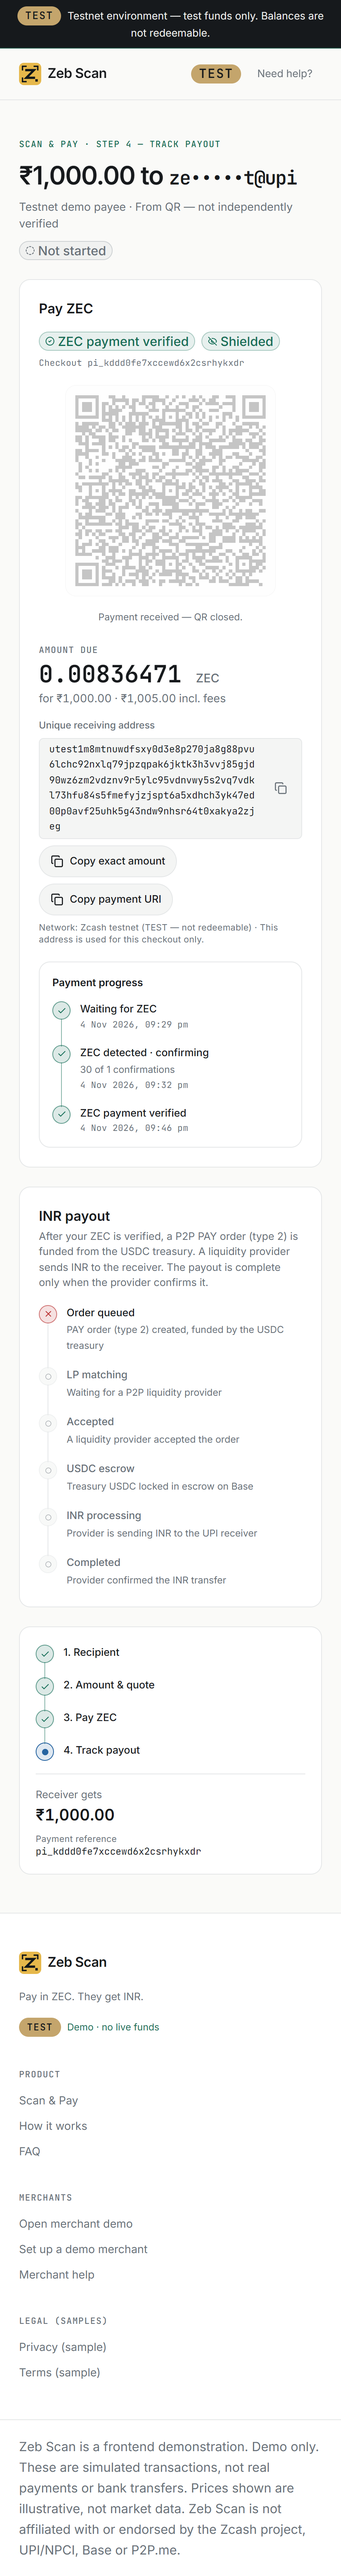
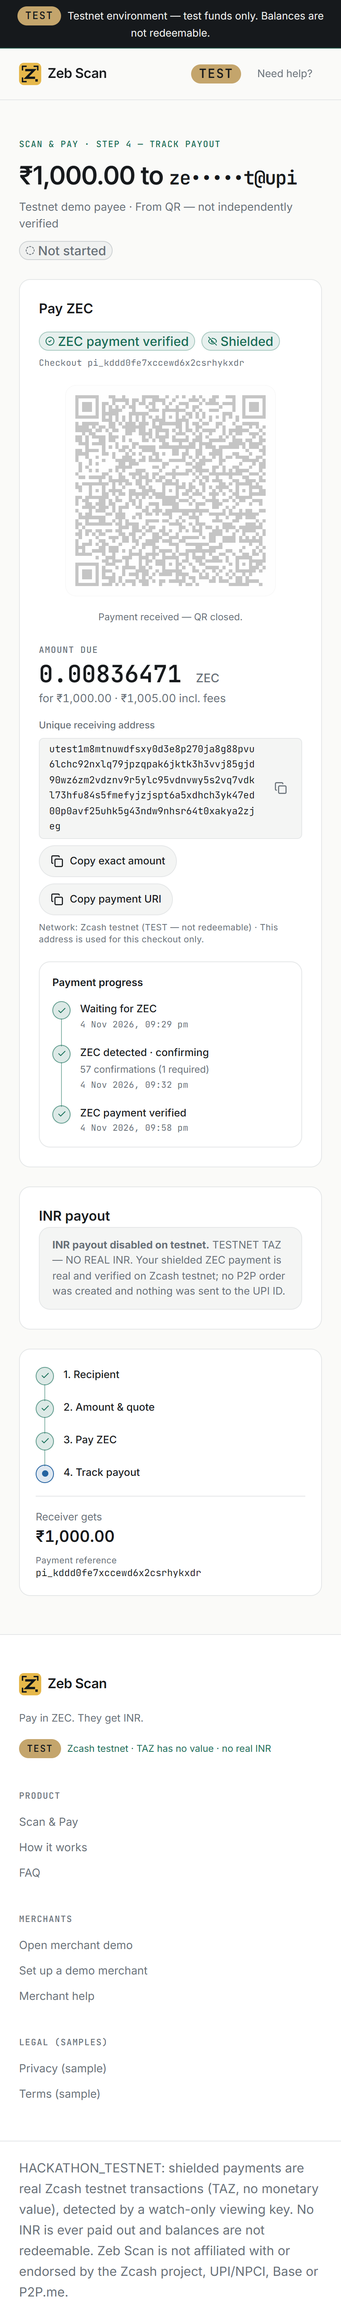
fix(web): honest testnet payout panel, footer and confirmation copy
Connected mode on HACKATHON_TESTNET showed 'Order queued - failed ... funded by the USDC
treasury' although no P2P order exists and payouts are disabled by design. Now: 'INR payout
disabled on testnet. TESTNET TAZ - NO REAL INR'. Footer no longer claims 'frontend
demonstration' on testnet; '30 of 1 confirmations' -> '30 confirmations (1 required)'.
Screenshot is the real checkout for txid 5c1f713d…d8f7.

Changed region(s): [[0.0302, 0.0, 0.9674, 0.999], [0.3023, 0.8429, 0.393, 0.8741], [0.3628, 0.718, 0.393, 0.7492]]

diff --git a/apps/web/src/components/screens/ScanStatus.tsx b/apps/web/src/components/screens/ScanStatus.tsx
@@ -31,6 +31,8 @@ export function ScanStatus({ id }: { id: string }) {
   const order = c.p2pOrderId ? state.orders.find((o) => o.id === c.p2pOrderId) ?? null : null;
   const receipt = state.receipts.find((r) => r.checkoutId === c.id);
   const stepNo = c.depositStatus === "accepted" ? 4 : 3;
+  // HACKATHON_TESTNET: TAZ is worthless; no P2P order is ever created, so never draw an order tracker.
+  const testnet = !isDemo && live?.config?.label === "TEST";
 
   return (
     <Container className="py-8 sm:py-12">
@@ -58,11 +60,17 @@ export function ScanStatus({ id }: { id: string }) {
             <h2 id="payout" className="text-[17px] font-semibold">
               INR payout
             </h2>
-            <p className="mb-4 mt-0.5 text-[13px] text-foreground-secondary">
-              After your ZEC is verified, a P2P PAY order (type 2) is funded from the USDC treasury. A liquidity provider sends INR to the receiver. The payout is complete
-              only when the provider confirms it.
-            </p>
-            {c.depositStatus !== "accepted" && !order ? (
+            {!testnet && (
+              <p className="mb-4 mt-0.5 text-[13px] text-foreground-secondary">
+                After your ZEC is verified, a P2P PAY order (type 2) is funded from the USDC treasury. A liquidity provider sends INR to the receiver. The payout is complete
+                only when the provider confirms it.
+              </p>
+            )}
+            {testnet ? (
+              <p className="rounded-panel border border-border bg-surface-2 px-4 py-3 text-[13px] text-foreground-secondary">
+                <strong>INR payout disabled on testnet.</strong> TESTNET TAZ — NO REAL INR. {c.depositStatus === "accepted" ? "Your shielded ZEC payment is real and verified on Zcash testnet; no P2P order was created and nothing was sent to the UPI ID." : "No INR is ever paid on testnet, even after the ZEC payment is verified."}
+              </p>
+            ) : c.depositStatus !== "accepted" && !order ? (
               <p className="rounded-panel border border-border bg-surface-2 px-4 py-3 text-[13px] text-foreground-secondary">The payout starts once your ZEC payment is verified.</p>
             ) : (
               <PayoutProgress order={order} />

diff --git a/apps/web/src/components/layout/PublicShell.tsx b/apps/web/src/components/layout/PublicShell.tsx
@@ -9,6 +9,7 @@ import { Drawer } from "@/components/ui/Modal";
 import { ModeBadge, ModeBanner } from "@/components/layout/ModeBanner";
 import { Container } from "./Container";
 import { ConnectWalletButton } from "@/components/screens/ConnectWallet";
+import { useZeb } from "@/providers/ZebProvider";
 
 /** Payment-first public nav (delta spec §9.2): Pay and Receive only; the rest lives in the footer. */
 const NAV = [
@@ -95,6 +96,8 @@ export function PublicHeader({ minimal }: { minimal?: boolean }) {
 }
 
 export function PublicFooter() {
+  const { isDemo, live } = useZeb();
+  const testnet = !isDemo && live?.config?.label === "TEST";
   const cols = [
     {
       title: "Product",
@@ -127,7 +130,7 @@ export function PublicFooter() {
           <ZebLogo />
           <p className="mt-3 text-[13px] leading-relaxed text-foreground-secondary">Pay in ZEC. They get INR.</p>
           <p className="mt-4 inline-flex items-center gap-2 text-label text-accent">
-            <ModeBadge /> Demo · no live funds
+            <ModeBadge /> {testnet ? "Zcash testnet · TAZ has no value · no real INR" : "Demo · no live funds"}
           </p>
         </div>
         {cols.map((c) => (
@@ -147,8 +150,10 @@ export function PublicFooter() {
       </Container>
       <div className="border-t border-border">
         <Container className="py-5 text-micro leading-relaxed text-foreground-muted">
-          Zeb Scan is a frontend demonstration. Demo only. These are simulated transactions, not real payments or bank transfers. Prices shown are
-          illustrative, not market data. Zeb Scan is not affiliated with or endorsed by the Zcash project, UPI/NPCI, Base or P2P.me.
+          {testnet
+            ? "HACKATHON_TESTNET: shielded payments are real Zcash testnet transactions (TAZ, no monetary value), detected by a watch-only viewing key. No INR is ever paid out and balances are not redeemable."
+            : "Zeb Scan is a frontend demonstration. Demo only. These are simulated transactions, not real payments or bank transfers. Prices shown are illustrative, not market data."}{" "}
+          Zeb Scan is not affiliated with or endorsed by the Zcash project, UPI/NPCI, Base or P2P.me.
         </Container>
       </div>
     </footer>

diff --git a/apps/web/src/components/payments/Progress.tsx b/apps/web/src/components/payments/Progress.tsx
@@ -33,7 +33,7 @@ export function depositSteps(c: CheckoutIntent, credit?: MerchantCredit | null):
       detail: c.deposit
         ? exception
           ? c.exceptionReason ?? undefined
-          : `${c.deposit.confirmations} of ${c.deposit.requiredConfirmations} confirmations`
+          : c.deposit.confirmations >= c.deposit.requiredConfirmations ? `${c.deposit.confirmations} confirmations (${c.deposit.requiredConfirmations} required)` : `Confirming (${c.deposit.confirmations}/${c.deposit.requiredConfirmations})`
         : "Detected by wallet scanning, not by a screenshot or a reported transaction id.",
       state: state(1),
       at: c.deposit?.detectedAt,
